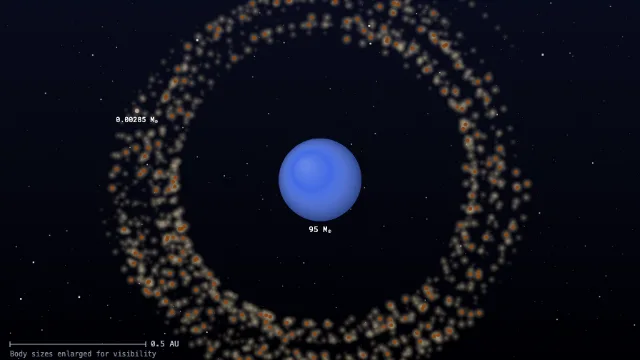
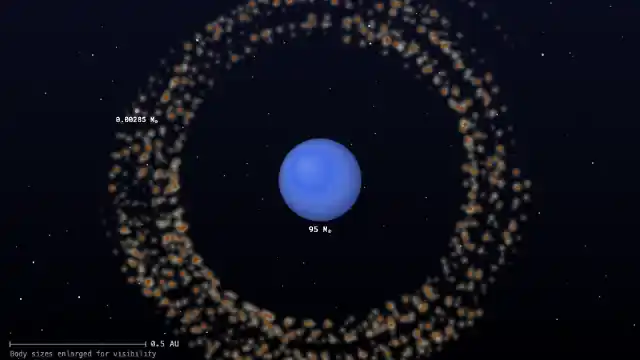
Prompt 204 part 2: first-visit precache overrun cut from +28,701 B to +5,494 B (Node 22): the two scenario thumbnails re-encoded at quality 40 (15.0 to 6.8 KB, 7.7 to 3.1 KB) and left to the service worker's first online visit (NEVER_PRECACHED), tidalSystems.js and tidePresets.js comments condensed;

diff --git a/js/world/tidalSystems.js b/js/world/tidalSystems.js
@@ -1,14 +1,7 @@
-// =============================================================================
-// Two scale-model systems for the rings and tides displays (Prompt 204 part 2)
-// -----------------------------------------------------------------------------
-// Each is one `published-system` rule of the geometry table (ENGINE_GEOMETRY in
-// js/world/build.js) and nothing else: the pull is the engine's own Newtonian
-// gravity, no extra force (verdict B of TIDAL_TORQUE_GATE.md). Both are
-// generators of bodies for the world builder; `published` is its constructor of
-// one named body, and every random draw is from the seeded generator, in the order
-// written, so a seed reproduces the world. The legs they are judged against are in
-// tests/fixtures/tides/display-thresholds.json, run by tools/tides-scenarios.mjs.
-// =============================================================================
+// Two scale-model systems for the rings and tides displays (Prompt 204 part 2):
+// one `published-system` rule each, Newtonian gravity only (TIDAL_TORQUE_GATE.md).
+// Draws come from the seeded generator in the order written. Design, bounds and
+// failed legs: D-R10-88, tests/fixtures/tides/display-thresholds.json.
 import {
   CERES_MASS_UNIT,
   EARTH_MASS_UNIT,
@@ -16,20 +9,11 @@ import {
 } from '../physics.js';
 
 /**
- * A ringed planet at the scale of Saturn and Mimas. The planet's mass is true
- * (95.16 Earth masses) and every length is a scale model, 100 units to the
- * resonant moon's orbit, with G carrying the exaggeration of distance as the
- * Earth-Moon System's does (js/data/tidePresets.js). The ring is 200 particles of
- * negligible mass, evenly spaced in radius between 0.52 and 0.76 of that orbit and
- * at random phases, so the moon's 2:1 resonance (0.63 of it, where the Cassini
- * Division lies) is inside it. The resonant moon (0.1 percent of the planet, about
- * 15,000 times Mimas's true ratio, so that twenty orbits can show the effect) and
- * the shepherd inside the ring at 72 (3e-5, a moonlet that clears a lane about its
- * orbit as Pan does in the Encke Gap) are exaggerated, and the scenario says so.
- * Draws: the moons' phases, then one for each particle. A particle's contact
- * radius is four thousandths of a unit: the engine's collisions are inelastic
- * bounces that heat a ring by themselves, and a gap made by them would teach the
- * wrong thing.
+ * A Saturn-like ringed planet (true mass), lengths scaled so the resonant moon
+ * orbits at 100 with G carrying the distance. 200 massless particles between 52 and
+ * 76 put the moon's 2:1 resonance (63) inside the ring; a shepherd at 72 clears a
+ * lane. Both moons are exaggerated in mass and the scenario says so. Draws: moon
+ * phases, then one per particle. Contact radius 0.004, so collisions do not make a gap.
  */
 export function* ringGapSystem(G, published) {
   const M = 95.16 * EARTH_MASS_UNIT;
@@ -87,17 +71,11 @@ export function* ringGapSystem(G, published) {
 }
 
 /**
- * The planet-and-clump geometry of Shoemaker-Levy 9 at Jupiter: a planet of one
- * Jupiter mass drawn 15 units across, and a clump of 60 particles (one thousandth
- * of the planet's mass, 2 units across, so 2.37 times less dense than the planet)
- * on a bound ellipse whose periapsis is `periapsisRadii` planet radii from the
- * planet's centre (1.3 by default; the tests' control uses 1.5 times the fluid
- * limit): inside the rigid Roche limit (2^(1/3) 2.37^(1/3) = 1.68 radii) and the
- * fluid one (2.44 x 2.37^(1/3) = 3.26). The clump starts near virial balance (a
- * disc of equal masses, random motion at the speed its own gravity sets), so what
- * happens after periapsis is the planet's tide. G is large, so a pass takes about
- * ten time units. A rubble particle's contact radius is a hundredth of a unit, so
- * the engine's collisions do not heat the clump.
+ * Shoemaker-Levy 9 at Jupiter: a 15-unit planet and a 60-particle clump (a thousandth
+ * of its mass, 2 units across, 2.37 times less dense) on an e = 0.9 orbit whose
+ * periapsis is `periapsisRadii` radii out (1.3; the tests' control uses 1.5 times
+ * the fluid limit), inside both Roche limits (1.68 and 3.26 radii). The clump starts
+ * near virial balance. Contact radius 0.01, so collisions do not heat it.
  */
 export function* rochePassSystem(G, published, periapsisRadii = 1.3) {
   const Mp = JUPITER_MASS_UNIT;
@@ -120,9 +98,7 @@ export function* rochePassSystem(G, published, periapsisRadii = 1.3) {
     radius: Rp,
     color: '#d9b98a',
   });
-  // Virial random motion (a uniform disc's 0.35 G m / R per axis, below the
-  // 0.42 of a full balance, so the clump holds for the pass), drawn from the
-  // seeded generator, with no net drift inside the clump.
+  // Random motion at 0.35 G m / R per axis (below balance, so it holds), no net drift.
   const sigma = Math.sqrt((0.35 * G * mc) / Rc);
   const gauss = () =>
     Math.sqrt(-2 * Math.log(1 - Math.random())) *
@@ -160,7 +136,7 @@ export function* rochePassSystem(G, published, periapsisRadii = 1.3) {
   }
 }
 
-/** The two scale models as geometry-table entries: one published-system rule each, recentered. */
+/** The two geometry-table entries. */
 export const TIDAL_GEOMETRY = {
   // prettier-ignore
   'ring-gap': { recenter: true, steps: [{ rule: { name: 'published-system', params: { system: 'ring-gap' } } }] },
@@ -168,7 +144,7 @@ export const TIDAL_GEOMETRY = {
   'roche-pass': { recenter: true, steps: [{ rule: { name: 'published-system', params: { system: 'roche-pass' } } }] },
 };
 
-/** The generator for a tidal scale-model system, or null for any other system. */
+/** The generator for a tidal system, or null. */
 export function tidalSystem(system, G, published, periapsisRadii) {
   if (system === 'ring-gap') return ringGapSystem(G, published);
   if (system === 'roche-pass')

diff --git a/sw-manifest.js b/sw-manifest.js
@@ -1,6 +1,6 @@
 // Generated by tools/build-service-worker.mjs. Do not edit.
 //
-// 1115 files, 18228KB. The version is a hash of their contents, so
+// 1113 files, 18204KB. The version is a hash of their contents, so
 // it changes when they do and only when they do - which is what makes the old
 // cache safe to delete on activate and safe to keep otherwise.
 //
@@ -8,15 +8,15 @@
 // entries are the shell, the modules, the stylesheets and the self-hosted
 // fonts and libraries: if any one of them cannot be fetched the install fails
 // and this version never activates, because a half-cached build is the mixed
-// revision the whole arrangement exists to prevent. The 112 optional
+// revision the whole arrangement exists to prevent. The 110 optional
 // entries are pictures and small pages; a missing one is reported and does not
 // cost the reader the version. The 198 idle entries are installed after
 // activation, on idle, by a message from the page (D-PERF-02, change 2): the
 // instructor modules, three.js, the 3-D lab, the mission lab, the Sky Lab, the
 // Library and the data tables. A missing one costs that surface its offline
 // copy, and the next open fetches only what is missing.
-self.__GRAVITAS_CACHE_VERSION = 'gravitas-c0e46f565644';
-self.__GRAVITAS_PRECACHE_BYTES = 18665696;
+self.__GRAVITAS_CACHE_VERSION = 'gravitas-8fe656aa7910';
+self.__GRAVITAS_PRECACHE_BYTES = 18640964;
 self.__GRAVITAS_PRECACHE_CORE = [
   './css/chrome.css',
   './css/components.css',
@@ -909,8 +909,6 @@ self.__GRAVITAS_PRECACHE_OPTIONAL = [
   './images/scenarios/pulsar-system.webp',
   './images/scenarios/quasar-cannon.webp',
   './images/scenarios/retrograde-mars.webp',
-  './images/scenarios/ring-gap.webp',
-  './images/scenarios/roche-pass.webp',
   './images/scenarios/rogue-encounter.webp',
   './images/scenarios/sagittarius-a.webp',
   './images/scenarios/slingshot-gauntlet.webp',
@@ -1244,8 +1242,6 @@ self.__GRAVITAS_PRECACHE = [
   './images/scenarios/pulsar-system.webp',
   './images/scenarios/quasar-cannon.webp',
   './images/scenarios/retrograde-mars.webp',
-  './images/scenarios/ring-gap.webp',
-  './images/scenarios/roche-pass.webp',
   './images/scenarios/rogue-encounter.webp',
   './images/scenarios/sagittarius-a.webp',
   './images/scenarios/slingshot-gauntlet.webp',

diff --git a/tests/buildIntegrity.test.js b/tests/buildIntegrity.test.js
@@ -285,9 +285,14 @@ describe('the service worker manifest is current', () => {
     // SCENARIO_INFO it says "every scenario's thumbnail is precached", which
     // also catches one that was added to the catalog and never captured.
     const { SCENARIO_INFO } = await import('../js/data/scenarioInfo.js');
+    // Two scale-model scenarios' thumbnails (ring-gap, roche-pass; D-R10-88) are kept after the
+    // first online visit instead: the gallery shows its titled fallback until then.
+    const KEPT_AFTER_FIRST_VISIT = ['ring-gap', 'roche-pass'];
     expect(
       paths.filter(p => /^images\/scenarios\/.*\.webp$/.test(p))
-    ).toHaveLength(Object.keys(SCENARIO_INFO).length);
+    ).toHaveLength(
+      Object.keys(SCENARIO_INFO).length - KEPT_AFTER_FIRST_VISIT.length
+    );
 
     // Every English lesson body. The reasoning is in the generator's header;
     // what matters here is that the decision cannot rot silently - a lesson

diff --git a/js/data/tidePresets.js b/js/data/tidePresets.js
@@ -1,7 +1,4 @@
-// Rings and tides (Prompt 204 part 2): the settings of the two scale-model scenarios.
-// G carries the distance exaggeration, as in Earth-Moon System; the bodies are declared
-// in js/world/build.js (ENGINE_GEOMETRY) and the bounds they were judged against are in
-// tests/fixtures/tides/display-thresholds.json.
+// Rings and tides (Prompt 204 part 2): settings of the two scale-model scenarios; G carries the distance.
 const EMPTY = {
   num_black_holes: 0,
   num_stars: 0,

diff --git a/manual/facts.tex b/manual/facts.tex
@@ -108,7 +108,7 @@
 \newcommand{\GravLocales}{2}
 \newcommand{\GravObjectives}{369}
 \newcommand{\GravPhysicsChecks}{339}
-\newcommand{\GravPrecacheFiles}{1115}
+\newcommand{\GravPrecacheFiles}{1113}
 \newcommand{\GravPrecacheGzipMB}{6}
 \newcommand{\GravReleaseChecks}{64}
 \newcommand{\GravScenarios}{61}

diff --git a/DECISION_REGISTER.md b/DECISION_REGISTER.md
@@ -449,4 +449,4 @@ Every row ratified by delegation is on Carl's ratification docket, which sits ou
 | D-R10-86 | Prompt 195 part 3 (#458), byte-ceiling raises at the CI-exact figures: (1) the deferred JavaScript ceiling 2153.3 to 2209.2 KB gzipped, in `tools/bundle-budget.mjs`, its mirror `tools/budget-policy.json` (`capCumulativeKb` 167.5 to 223.4) and `tests/budgetPolicy.test.js`, measured on CI Node 22 at run 40501328919 on 3b634512: 2,262,141 bytes (2209.1 KB), an overrun of 57,162 bytes (55.8 KB) rounded up to 0.1 KB (the local Node 22 copy measured 2,262,076); (2) route kilobyte ceilings in `tools/route-budgets.json`, each raised to the value `tools/route-budget.mjs` measured on a Node 22 copy of this head with the rebuilt instructor bundle (the CI step that runs it was not reached because the bundle budget failed first; Linux figures have equalled the Mac's since #107), under the same approval: sources instructors 988.5 to 1029.9, library 88.1 to 88.6, composer 515.7 to 517, course-packs 652 to 656.2, course-builder 1072.4 to 1076, course-home 276.2 to 277.5; build instructors 870.8 to 906.8, library 32.3 to 32.5, composer 267.4 to 268.5, course-packs 249.4 to 252.6, course-builder 616.6 to 619.3, course-home 73.1 to 74.2. No request ceiling moved. (3) Not raised, left for Carl: the two precache ceilings in `tools/data-budget.json` (first-visit 5,181,768 against 5,179,139 B, +2,629 B; idle 1,551,495 against 1,550,624 B, +871 B, on the Node 22 copy) and the two line ceilings of D-R10-85 (3). | `tools/bundle-budget.mjs` (c618570a) | the standing approval of size budgets, listed for the queue's next report | **DELEGATED** | Carl, 2026-10-10, standing approval for size budgets (CLAUDE.md): a raise exactly the measured overrun rounded up to 0.1 KB, with a register row citing it and listed in the queue's next report. It does not cover scientific gates or thresholds, `tools/data-budget.json`, line ceilings, workflow changes, force pushes, merges to main or deploys. | Carl declining a raise (then the crater lessons move to a lighter form); a CI figure that differs from the local route figures (then the route ceilings are re-set at CI's) | 195 |
 | D-R10-87 | Prompt 195 part 3 (#458), the two precache ceilings in `tools/data-budget.json` raised to the CI Node 22 figures that this PR's registration data, instrument family loaders and Library entries measured: first-visit `precacheFirstVisitGzipBytes` 5,179,139 to 5,181,768 (+2,629 B) and idle `precacheIdleGzipBytes` 1,550,624 to 1,551,495 (+871 B), at run 40502122272 on b26d152f (the local Node 22 copy measured the same two figures). Nothing else in that file moves. | `tools/data-budget.json` (a13f4a04) | built within D-R10-85 and D-R10-86; the tiers are the only legs that were red after the byte raises | **RATIFIED** | Reviewed by Carl and ratified in his own answer in chat, relayed by the coordinator on 2026-10-27: data budget "Raise both, CI-exact (Recommended)". This covers the two figures above only; the line-ceiling ruling "Raise both exactly (Recommended)" is quoted in D-R10-85 (3). | Carl withdrawing the ruling, or CI measuring different figures on a later head (then they are re-set at CI's) | 195 |
 | D-R10-88 | Prompt 204 part 2, the displays verdict B of `TIDAL_TORQUE_GATE.md` left unbuilt: two scale-model scenarios (Ring Gap, Roche Pass) declared through the geometry table as `published-system` rules (`js/world/tidalSystems.js`, settings in `js/data/tidePresets.js`), the four-instrument `tides` family (`js/tidesWidgets.js`), three investigations (Why Rings?, Tides That Move the Moon, Io's Fire) at three depths in English and Spanish appended to the four shared satellite-sequence files, and a model-page section. No engine torque, no extra force, no integrator change. The legs and bounds were committed before any scenario existed (`tests/fixtures/tides/display-thresholds.json`); THREE LEGS FAILED and are recorded as failed, not moved: s2 eccentricity contrast at the 2:1 radius 1.118 against at least 3, s3 thinning 0.7755 against at most 0.75, s4b lane about the shepherd 0.939 against at most 0.6 (and s4, the outer shepherd edge, failed as first designed and was replaced by s4b, both on the record). The Roche-pass control (r3) passes at 1.24 but is not robust: eight periapses within 2 percent of it give 0.2 to 4 (five of eight under 2), because one escaping body sets the largest extent; the lessons say so. Four closure files are edited, none added (the four `satellite-sequence.js` files; the instructor closure stays 281 of 282). | `js/world/tidalSystems.js` (e64654e3) | verdict B of Prompt 199/204 (D-R10-75, D-R10-78); the thresholds file; the pattern of D-R10-81 | **DELEGATED** | By delegation under the standing instruction of 2026-10-11 (CLAUDE.md, Decisions: go with my recommendation); the failed legs are Carl's to read, none was moved | Carl wanting a failed leg fixed by a different design (a bound is never moved), or the scenarios cut | 204 |
-| D-R10-89 | Prompt 204 part 2, byte-ceiling raises measured on Node 22 on the tree merged with v3 at 0209abc0 (the Node 22 build of this PR's first run matched CI's deferred figure to 2 bytes), to be confirmed on CI: (1) deferred JavaScript 2209.2 to 2236.5 KB gzipped in `tools/bundle-budget.mjs`, its mirror `tools/budget-policy.json` (`capCumulativeKb` 223.4 to 250.7) and `tests/budgetPolicy.test.js`, exactly the overrun (2,290,099 bytes, 27.3 KB) rounded up to 0.1 KB, under the standing approval for size budgets of 2026-10-10; (2) route kilobyte ceilings in `tools/route-budgets.json` at the measured figures, same approval: sources front-door 2121.9 to 2130.5; sources sandbox 2121.9 to 2130.5; sources instructors 1029.9 to 1059.1; sources figure 2395.6 to 2406.6; sources library 88.6 to 88.9; sources composer 517 to 519.3; sources course-packs 656.2 to 662.1; sources course-builder 1076 to 1081.3; sources course-home 277.5 to 279.9; build instructors 906.8 to 933.7; build library 32.5 to 32.6; build composer 268.5 to 270.5; build course-packs 252.6 to 277.6; build course-builder 619.3 to 644; build course-home 74.2 to 96.3 (the lessons' step text and instructor prose reach these routes through the shared investigation data); (3) request ceilings in the same file, raised by the measured overrun of the two new modules `js/world/tidalSystems.js` and `js/data/tidePresets.js`: sources front-door requests 107 to 109, sources sandbox requests 107 to 109, sources kepler requests 146 to 148, sources transit requests 146 to 148, sources transit toolRequests 151 to 153, sources power-law requests 146 to 148, sources power-law toolRequests 149 to 151, sources largest-lesson requests 148 to 150, sources figure requests 126 to 129, sources experiments requests 57 to 59, sources studio requests 48 to 49, sources course-packs requests 44 to 45, sources course-builder requests 46 to 47, sources course-home requests 19 to 20: NOT covered by the standing approval (D-R10-82 took Carl's ruling for request ceilings), so these are PROVISIONAL and wait for his ruling. The precache ceilings in `tools/data-budget.json` are NOT touched: first-visit measures 5,210,469 against 5,181,768 (+28,701 B) and idle 1,553,365 against 1,551,495 (+1,870 B) on Node 22; the policy mode is exact, which reports and does not fail, and the ceilings are Carl's alone. | `tools/bundle-budget.mjs` (22b2ab35) | built within verdict B (D-R10-75); the growth is the instruments, the three lessons, the two scenarios and their registration data | **DELEGATED** | Parts (1) and (2): the standing approval of 2026-10-10 (CLAUDE.md), the queue to list them in its next report. Part (3) and the precache ceilings: Carl | Carl wanting a lesson or a family cut so a ceiling stays where it was; a CI Node 22 figure differing from the ones quoted; Carl's ruling on the request ceilings | 204 |
+| D-R10-89 | Prompt 204 part 2, byte-ceiling raises measured on Node 22 on the tree merged with v3 at 0209abc0 (the Node 22 build of this PR's first run matched CI's deferred figure to 2 bytes), to be confirmed on CI: (1) deferred JavaScript 2209.2 to 2236.5 KB gzipped in `tools/bundle-budget.mjs`, its mirror `tools/budget-policy.json` (`capCumulativeKb` 223.4 to 250.7) and `tests/budgetPolicy.test.js`, exactly the overrun (2,290,099 bytes, 27.3 KB) rounded up to 0.1 KB, under the standing approval for size budgets of 2026-10-10; (2) route kilobyte ceilings in `tools/route-budgets.json` at the measured figures, same approval: sources front-door 2121.9 to 2130.5; sources sandbox 2121.9 to 2130.5; sources instructors 1029.9 to 1059.1; sources figure 2395.6 to 2406.6; sources library 88.6 to 88.9; sources composer 517 to 519.3; sources course-packs 656.2 to 662.1; sources course-builder 1076 to 1081.3; sources course-home 277.5 to 279.9; build instructors 906.8 to 933.7; build library 32.5 to 32.6; build composer 268.5 to 270.5; build course-packs 252.6 to 277.6; build course-builder 619.3 to 644; build course-home 74.2 to 96.3 (the lessons' step text and instructor prose reach these routes through the shared investigation data); (3) request ceilings in the same file, raised by the measured overrun of the two new modules `js/world/tidalSystems.js` and `js/data/tidePresets.js`: sources front-door requests 107 to 109, sources sandbox requests 107 to 109, sources kepler requests 146 to 148, sources transit requests 146 to 148, sources transit toolRequests 151 to 153, sources power-law requests 146 to 148, sources power-law toolRequests 149 to 151, sources largest-lesson requests 148 to 150, sources figure requests 126 to 129, sources experiments requests 57 to 59, sources studio requests 48 to 49, sources course-packs requests 44 to 45, sources course-builder requests 46 to 47, sources course-home requests 19 to 20: NOT covered by the standing approval (D-R10-82 took Carl's ruling for request ceilings), so these are PROVISIONAL and wait for his ruling. The precache ceilings in `tools/data-budget.json` are NOT touched: first-visit measures 5,187,262 against 5,181,768 (+5,494 B; it was +28,701 B before the two scenario thumbnails were re-encoded at WebP quality 40, 15.0 to 6.8 KB and 7.7 to 3.1 KB, and kept out of the install by NEVER_PRECACHED, and tidalSystems.js and tidePresets.js had their prose comments cut, 3.3 to 2.5 KB gzipped; the rest is registration data, 3.05 KB, and the generators, which the world builder imports synchronously and so cannot be lazy) and idle 1,553,365 against 1,551,495 (+1,870 B) on Node 22; the policy mode is exact, which reports and does not fail, and the ceilings are Carl's alone. | `tools/bundle-budget.mjs` (22b2ab35) | built within verdict B (D-R10-75); the growth is the instruments, the three lessons, the two scenarios and their registration data | **DELEGATED** | Parts (1) and (2): the standing approval of 2026-10-10 (CLAUDE.md), the queue to list them in its next report. Part (3) and the precache ceilings: Carl | Carl wanting a lesson or a family cut so a ceiling stays where it was; a CI Node 22 figure differing from the ones quoted; Carl's ruling on the request ceilings | 204 |

diff --git a/OFFLINE_AND_LOW_END.md b/OFFLINE_AND_LOW_END.md
@@ -52,15 +52,15 @@ Measured from the committed `sw-manifest.js` and the files it lists, by
 | | Files | Raw |
 | --- | ---: | ---: |
 | JavaScript | 954 | 15.2 MB |
-| Images | 104 | 900 KB |
+| Images | 102 | 870 KB |
 | Stylesheets | 10 | 500 KB |
 | Fonts | 9 | 140 KB |
 | Panel markup | 10 | 60 KB |
 | Pages | 12 | 320 KB |
 | Other | 16 | 720 KB |
-| **Total** | **1115** | **17.8 MB** |
+| **Total** | **1113** | **17.8 MB** |
 
-Of those, 805 are core (the install fails without them), 112 optional (installed with them; a missing one is reported and costs nothing) and 198 idle (installed after activation, when the browser is idle; a missing one costs that page its offline copy and is fetched again on the next open). The first-visit install is the core and the optional files: 917 files.
+Of those, 805 are core (the install fails without them), 110 optional (installed with them; a missing one is reported and costs nothing) and 198 idle (installed after activation, when the browser is idle; a missing one costs that page its offline copy and is fetched again on the next open). The first-visit install is the core and the optional files: 915 files.
 
 Gzipped, as Pages serves it, the whole is about 6 MB.
 
